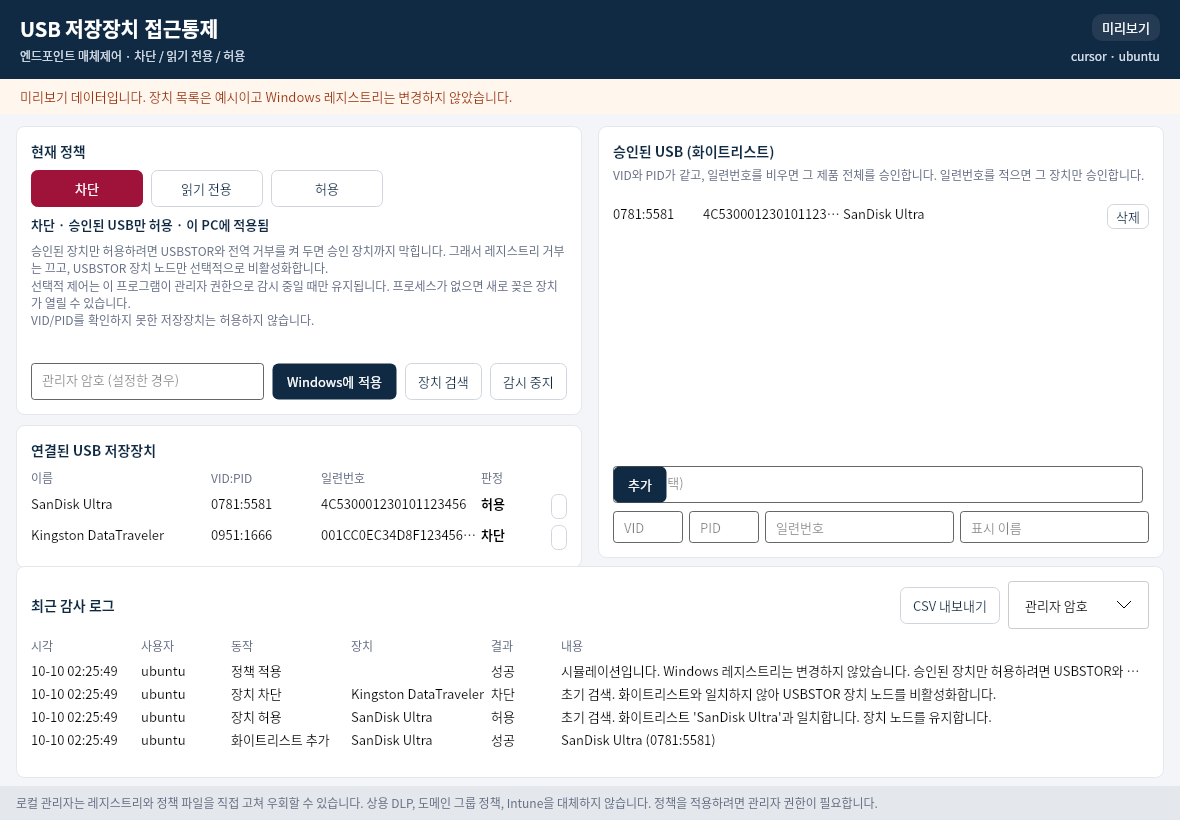
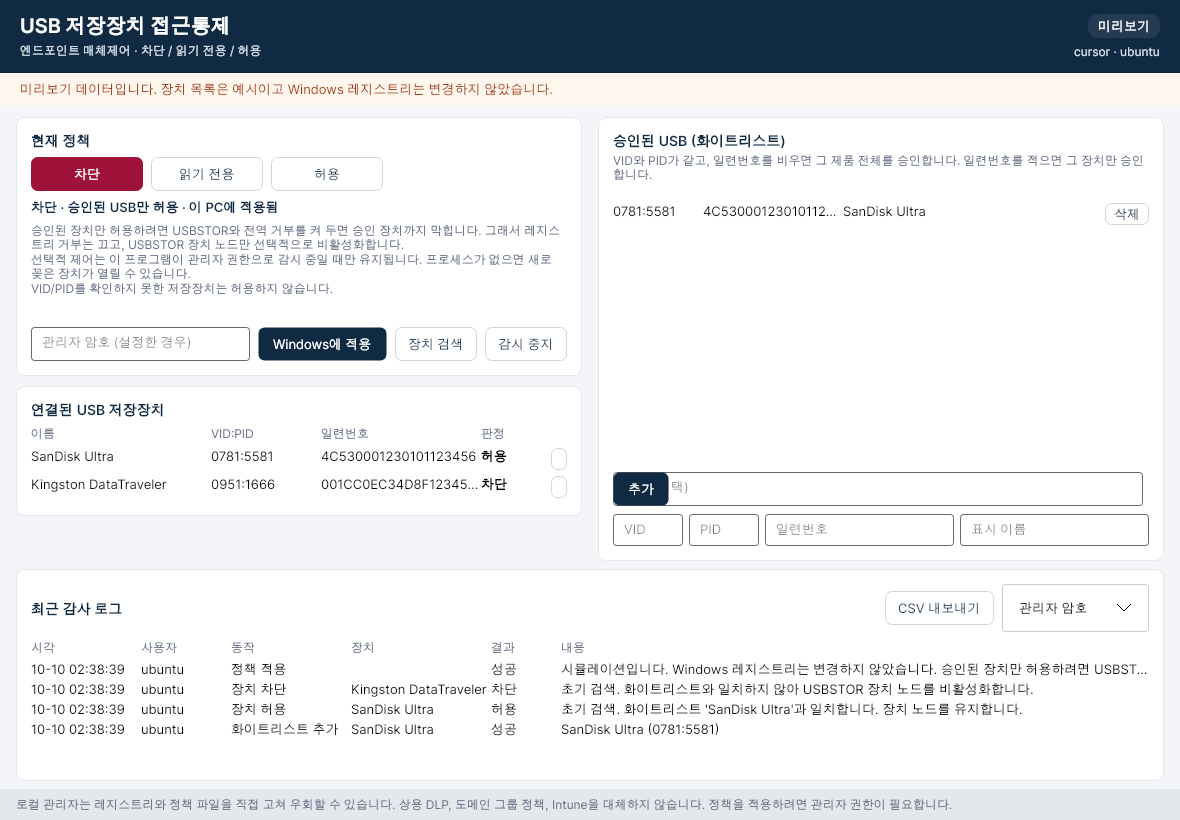
Fix headless UI test font and commit the preview screenshot
Use the embedded Inter font so the render test can start on CI runners that do not have Noto installed. Keep the captured Korean preview at docs/images/ui_main_preview.png and point the README at that file.

diff --git a/tests/UsbAccessControl.App.Tests/ScreenshotTests.cs b/tests/UsbAccessControl.App.Tests/ScreenshotTests.cs
@@ -16,15 +16,7 @@ public class HeadlessAppBuilder
         Environment.SetEnvironmentVariable("USBAC_HEADLESS", "1");
         return AppBuilder.Configure<App>()
             .UseSkia()
-            .With(new FontManagerOptions
-            {
-                DefaultFamilyName = "Noto Sans CJK KR",
-                FontFallbacks =
-                [
-                    new FontFallback { FontFamily = new FontFamily("Noto Sans CJK KR") },
-                    new FontFallback { FontFamily = new FontFamily("NanumGothic") }
-                ]
-            })
+            .WithInterFont()
             .UseHeadless(new AvaloniaHeadlessPlatformOptions { UseHeadlessDrawing = false });
     }
 }
@@ -39,7 +31,7 @@ public class ScreenshotTests
             DataContext = PreviewSession.CreateModel(),
             Width = 1180,
             Height = 820,
-            FontFamily = new FontFamily("Noto Sans CJK KR, NanumGothic, Malgun Gothic")
+            FontFamily = FontFamily.Parse("avares://Avalonia.Fonts.Inter/Assets#Inter")
         };
         window.Show();
         var frame = window.CaptureRenderedFrame();

diff --git a/README.md b/README.md
@@ -33,9 +33,9 @@ Windows 10/11 PC에서 USB 대용량 저장장치 접근을 **차단**, **읽기
 
 ## 화면
 
-아래 그림은 실제 Avalonia 창을 헤드리스 렌더러로 캡처한 것입니다. 장치 두 대(SanDisk Ultra, Kingston DataTraveler)는 `--preview`와 같은 **예시 데이터**이고, 캡처 중 Windows 레지스트리는 변경하지 않았습니다. 계정 이름이 빌드 계정으로 보이는 것은 그 환경의 실제 사용자이기 때문입니다. Windows에서 실행하면 같은 화면에 실제 장치와 적용 상태가 나옵니다.
+아래 그림은 실제 Avalonia 창을 헤드리스 렌더러로 캡처한 미리보기입니다. 장치 두 대(SanDisk Ultra, Kingston DataTraveler)는 `--preview`와 같은 **예시 데이터**이고, 캡처 중 Windows 레지스트리는 변경하지 않았습니다. 계정 이름이 빌드 계정으로 보이는 것은 그 환경의 실제 사용자이기 때문입니다. Windows에서 실행하면 같은 화면에 실제 장치와 적용 상태가 나옵니다.
 
-![주 화면. 차단 정책, 승인된 SanDisk, 차단된 Kingston, 감사 로그](docs/ui-main.png)
+![미리보기 데이터로 렌더한 주 화면. 차단 정책, 승인된 SanDisk, 차단된 Kingston, 감사 로그](docs/images/ui_main_preview.png)
 
 ## 설치·빌드 방법
 
@@ -163,7 +163,7 @@ dotnet test UsbAccessControl.sln -c Release
 창 렌더 테스트는 Avalonia 헤드리스와 Skia로 실제 창 비트맵을 만듭니다. 스크린샷 파일을 다시 쓰려면 다음처럼 실행합니다.
 
 ```bash
-USBAC_WRITE_SCREENSHOT=docs/ui-main.png dotnet test tests/UsbAccessControl.App.Tests -c Release --filter MainWindow_renders_a_real_frame
+USBAC_WRITE_SCREENSHOT=docs/images/ui_main_preview.png dotnet test tests/UsbAccessControl.App.Tests -c Release --filter MainWindow_renders_a_real_frame
 ```
 
 ## 라이선스
